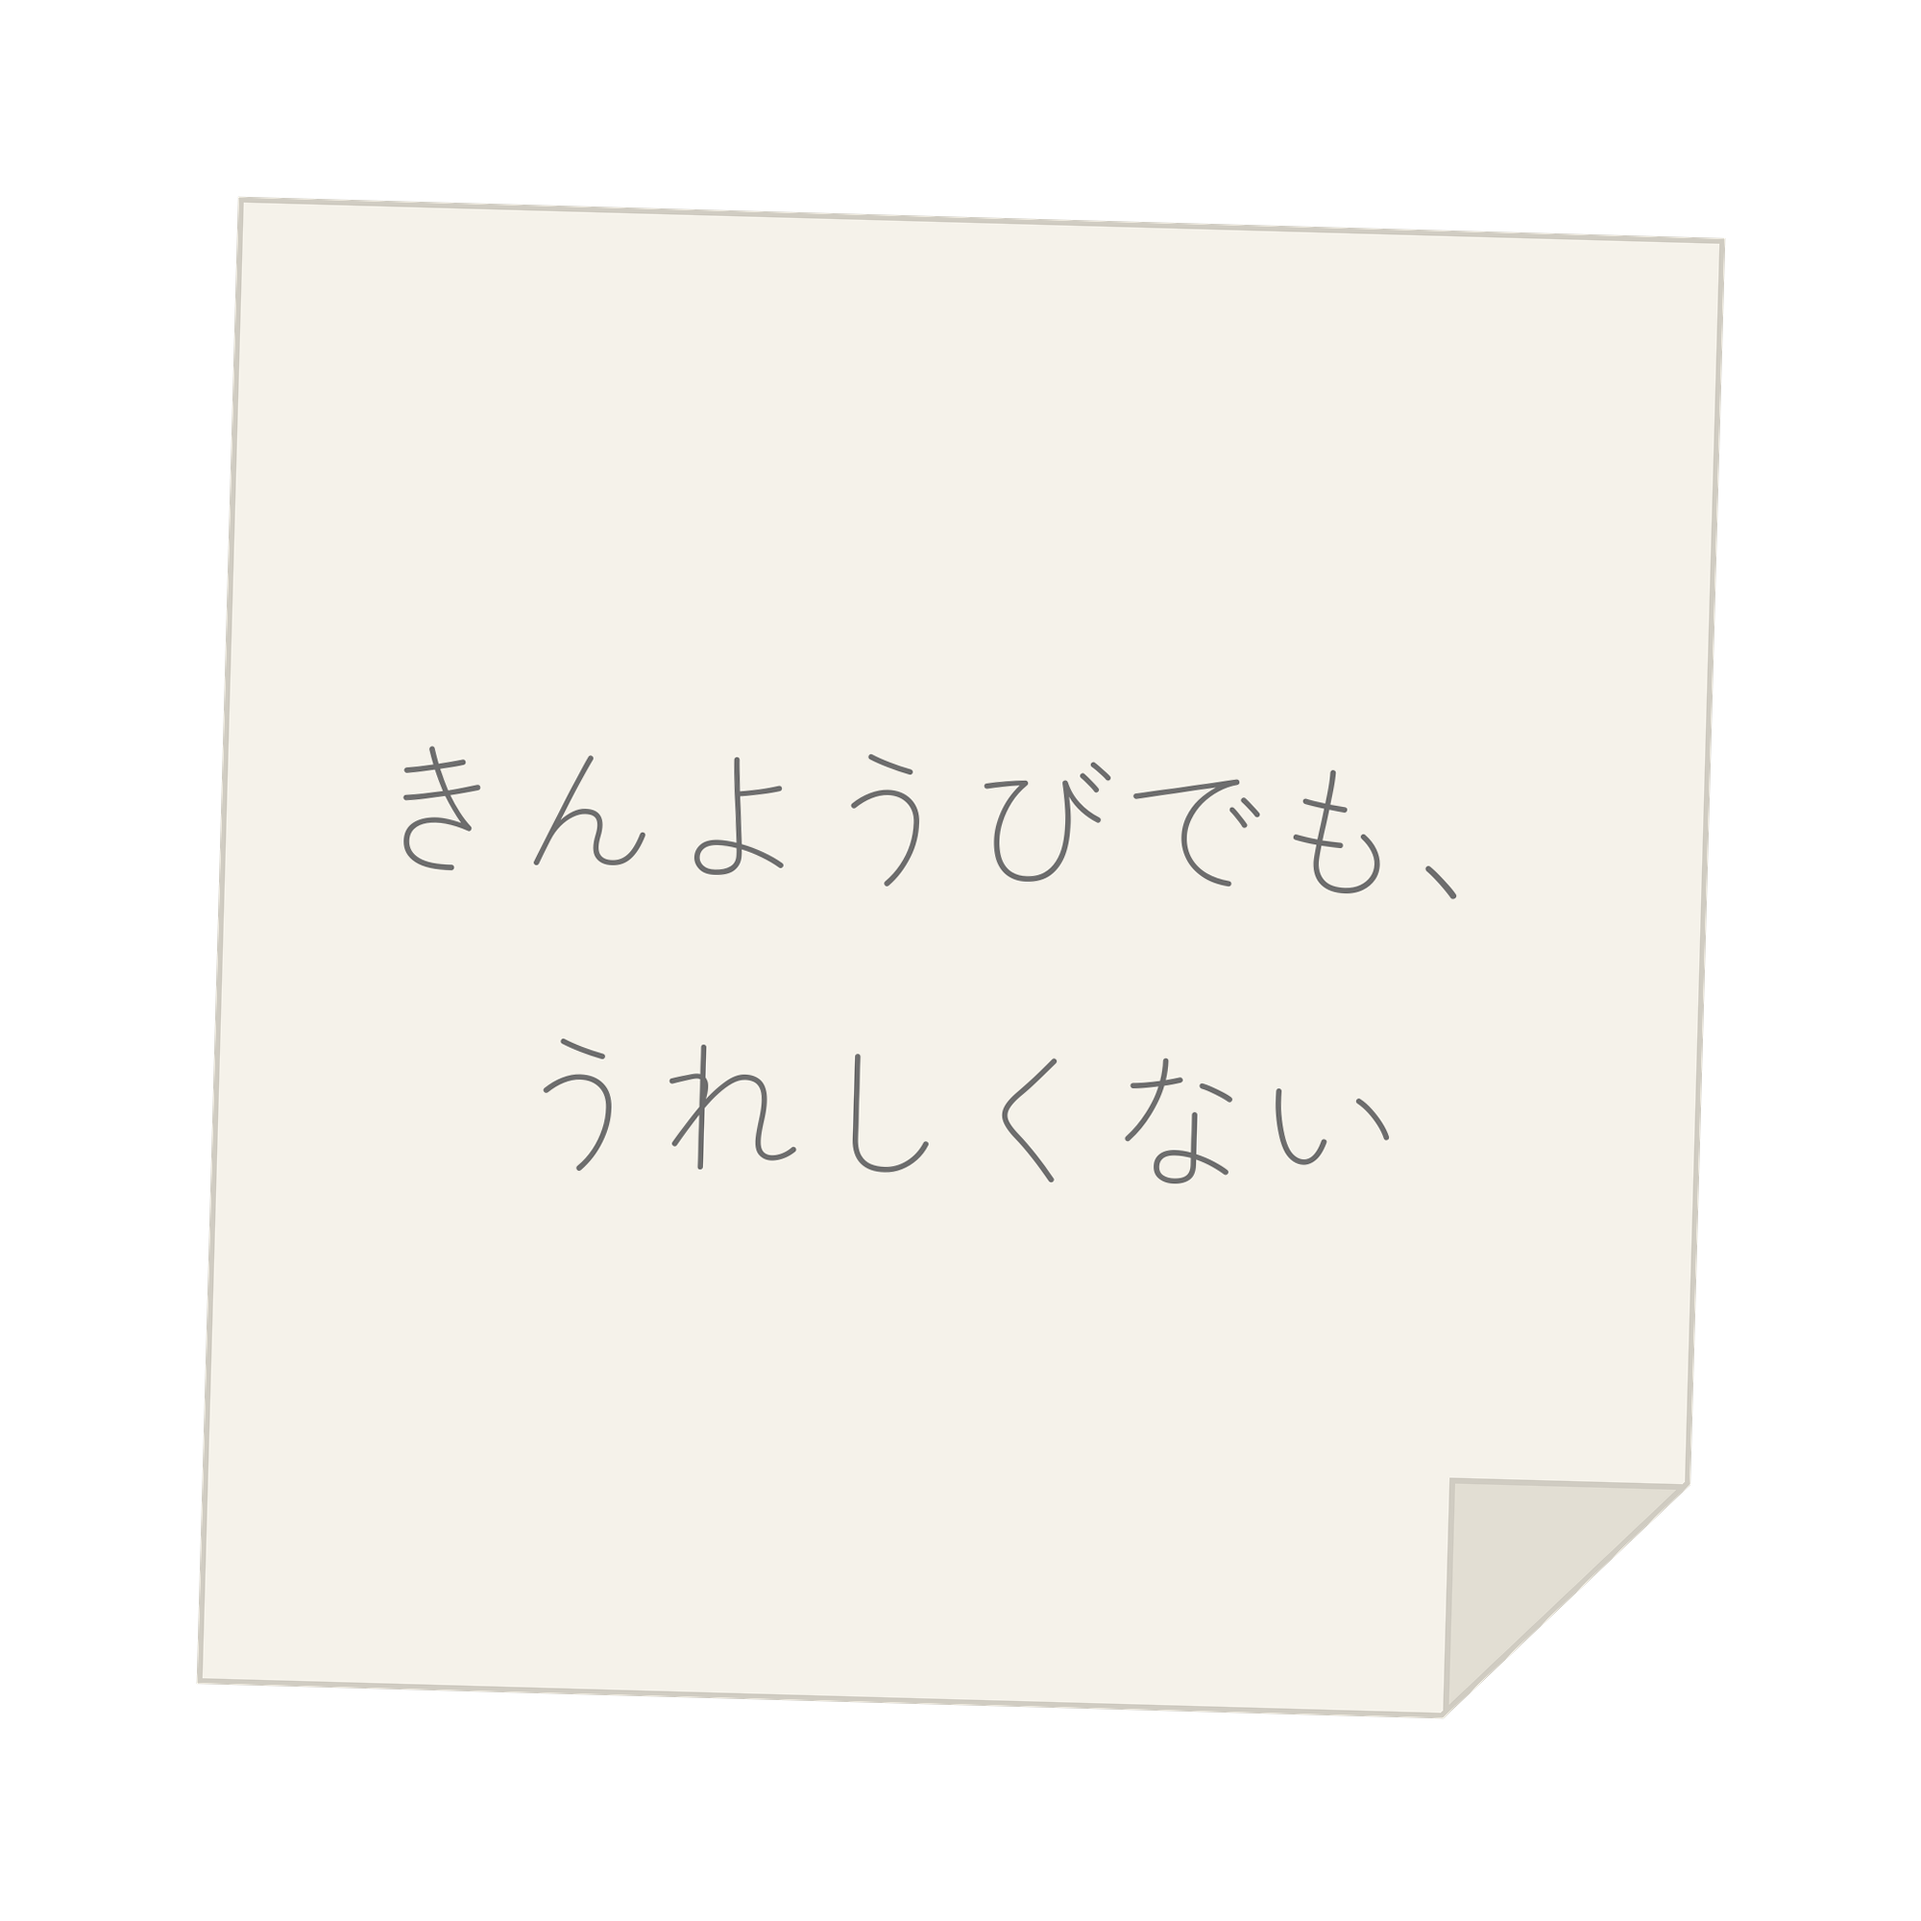
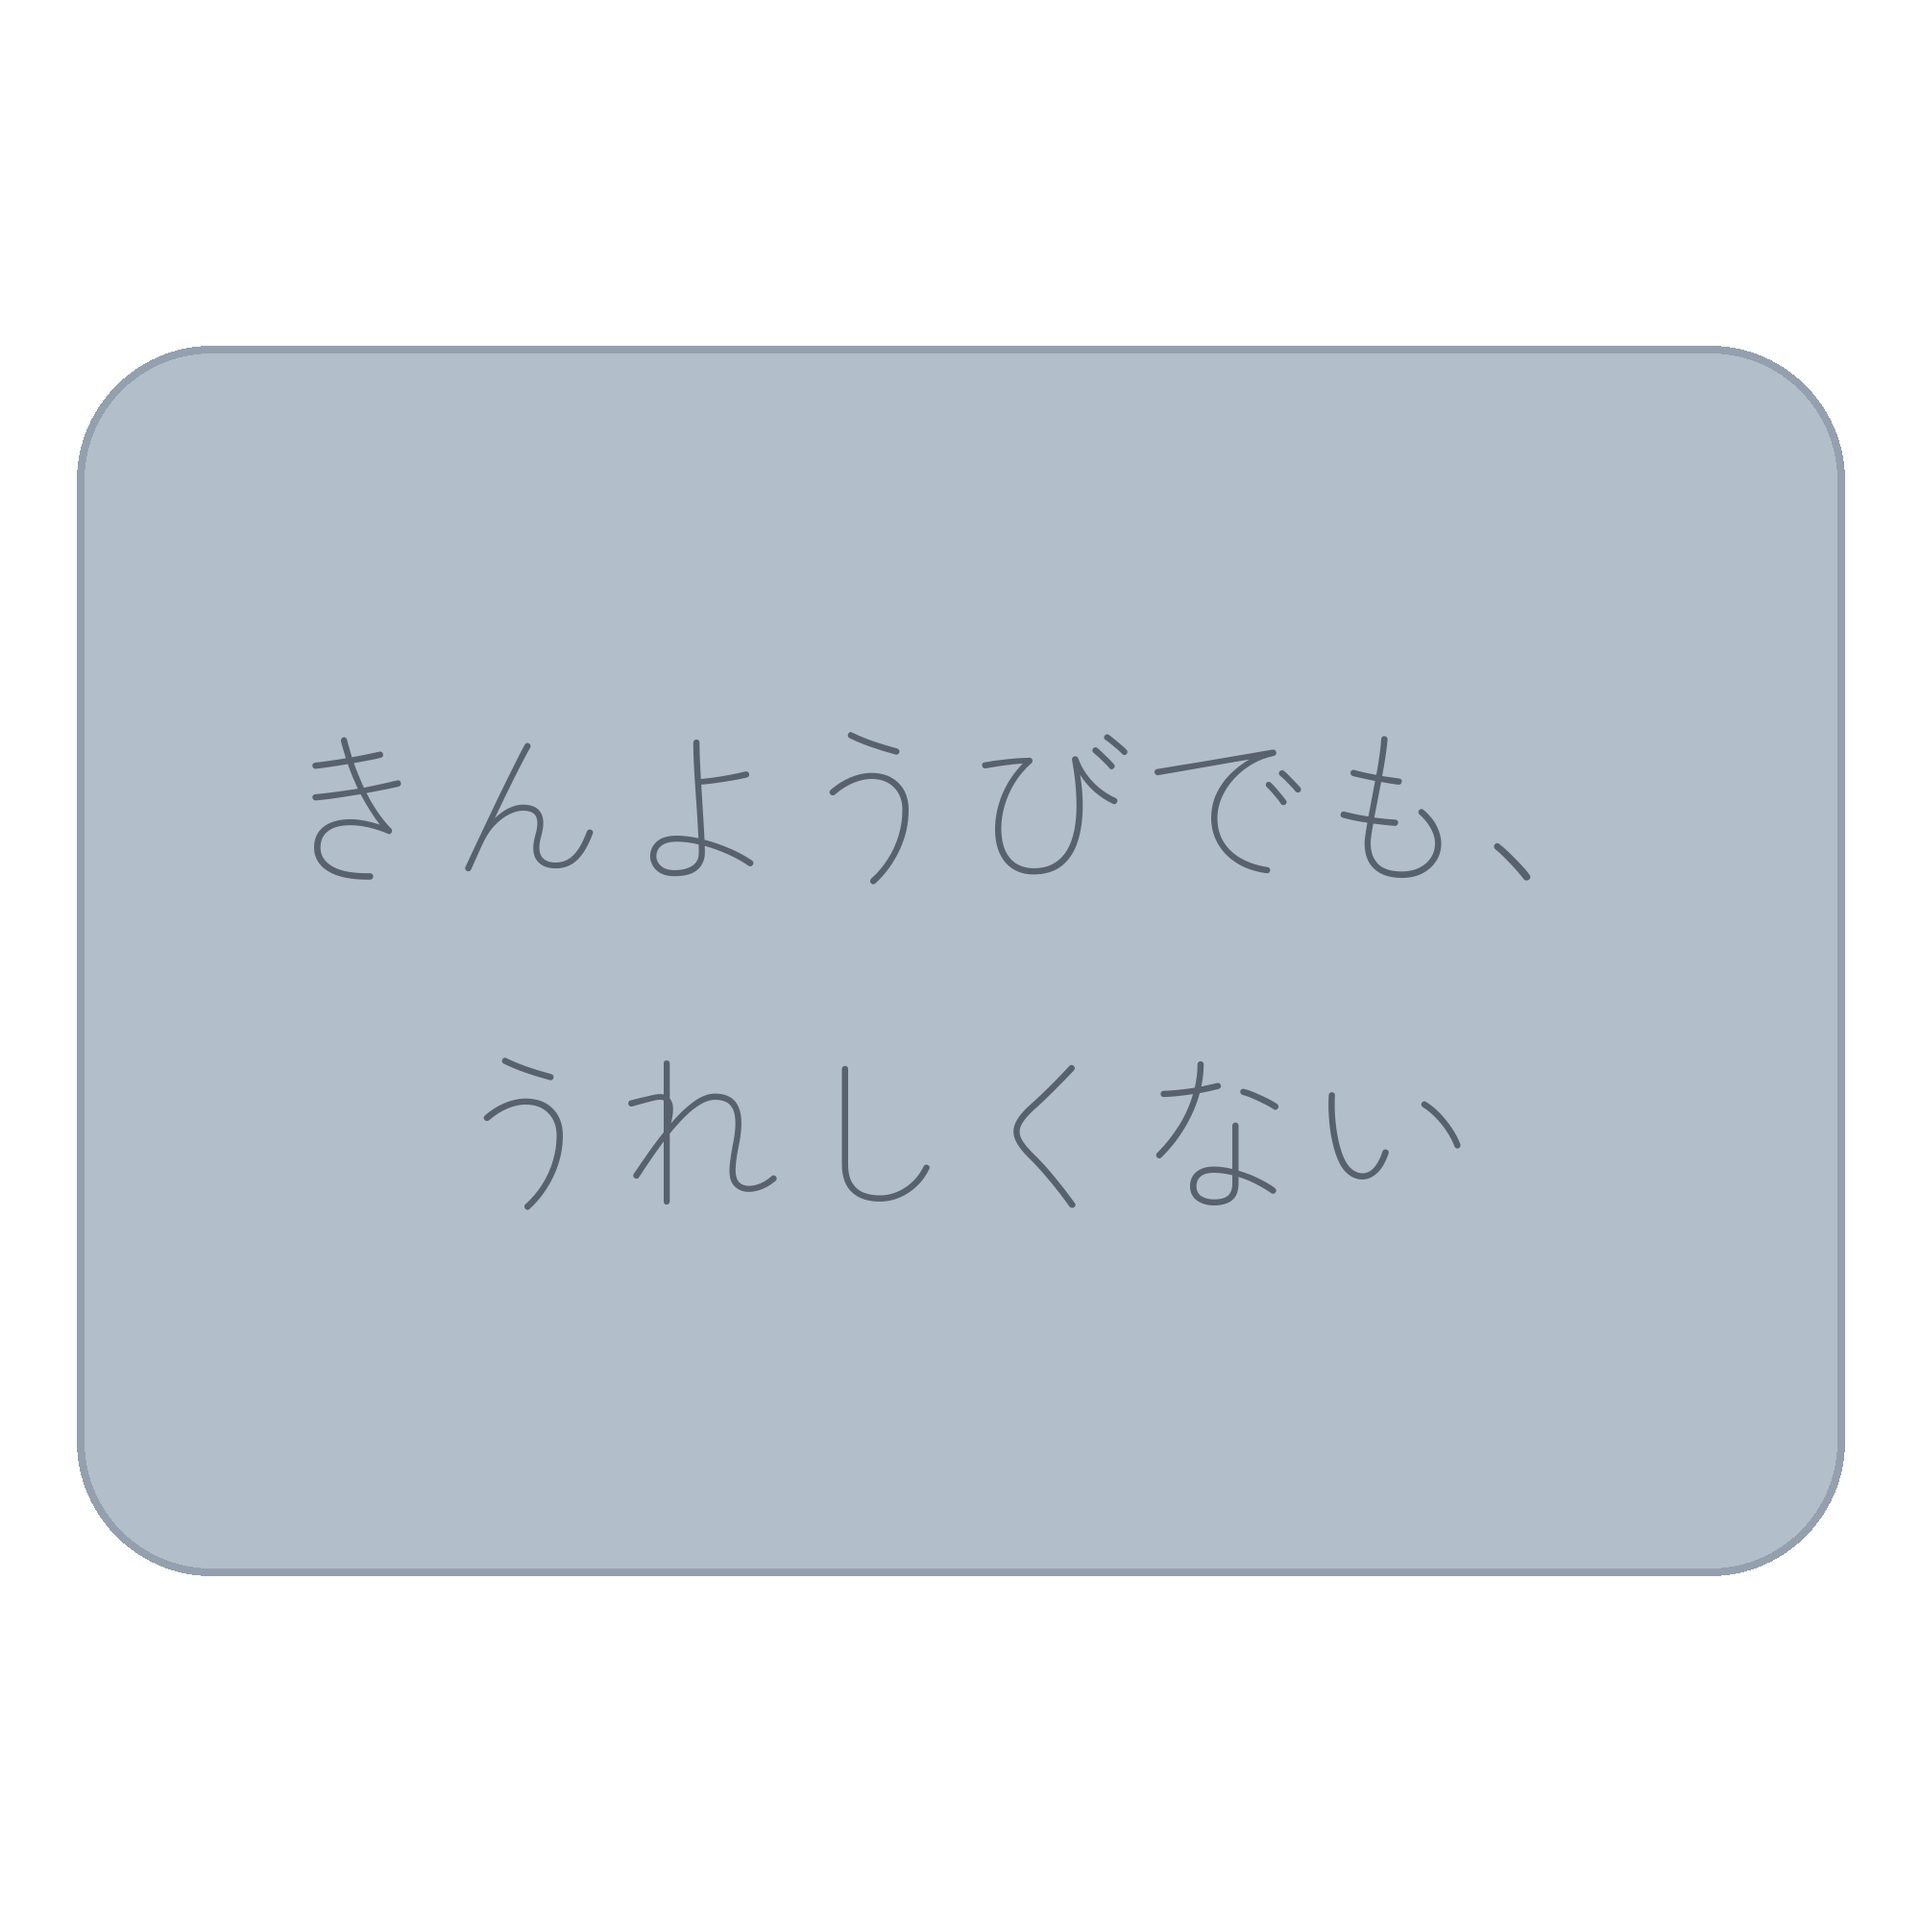
角丸台座をくすみブルーにした配色バリエーションを追加
台座を生成りからくすみブルーに変更し、文字色は台座に
沈まないようスレートグレーに調整。形状は角丸台座版と同じ
1枚もの。

Claude-Session: https://claude.ai/code/session_01Hth1TDsqnV3mvtVRGZwAwr

diff --git a/stickers/generate.py b/stickers/generate.py
@@ -2,9 +2,8 @@
 """「〜ても、シリーズ」ステッカー入稿データ生成スクリプト
 
 SUZURI入稿用の透過PNG(2000x2000)を stickers/png/ に出力する。
-デザインは正方形の付箋風: 生成り色の正方形に右下の紙めくれ、
-全体をわずかに傾けて「手で貼った」感を出す。1枚ものなので
-カットラインは外周1本になる。
+デザインは角丸台座のくすみブルー版: 全種共通の角丸長方形ベースに
+2行組みの文字。1枚ものなのでカットラインは外周1本になる。
 フォント: Zen Maru Gothic Light (SIL Open Font License 1.1 / 商用利用可)
 
 使い方:
@@ -22,19 +21,17 @@ FONT_URL = (
 FONT_CACHE = os.path.join(os.path.dirname(__file__), "ZenMaruGothic-Light.ttf")
 
 CANVAS = 2000          # SUZURI推奨の大判サイズ
-COLOR = (110, 110, 110, 255)  # グレー1色。色数を増やすと脱力が死ぬ
+MAX_LINE_WIDTH = 1460  # 文字の最大幅(台座の内側に収める)
+MAX_FONT_SIZE = 300    # 短い行が間延びしないよう上限を設ける
+LINE_SPACING = 1.30    # 行間(脱力感を出すためやや広め)
+COLOR = (88, 97, 110, 255)  # スレートグレー。ブルー台座に沈まない濃さにする
 
-NOTE_SIZE = 1560       # 付箋の一辺
-NOTE_FILL = (245, 242, 234, 255)    # 生成り(付箋の紙色)
-NOTE_BORDER = (208, 204, 194, 255)  # うっすら輪郭(白地で消えないように)
-NOTE_BORDER_W = 6
-FOLD_SIZE = 250        # 右下の紙めくれの大きさ
-FOLD_FILL = (226, 222, 211, 255)    # めくれの裏面(本体よりやや暗い)
-NOTE_ANGLE = -1.6      # 全体の傾き(手で貼った感)
-
-PAD_X = 150            # 付箋の端から文字までの余白
-MAX_FONT_SIZE = 260    # 短い行が間延びしないよう上限を設ける
-LINE_SPACING = 1.35    # 行間(脱力感を出すためやや広め)
+# 台座: くすみブルーの角丸長方形(シリーズ共通)
+BASE_SIZE = (1840, 1280)
+BASE_RADIUS = 140
+BASE_FILL = (178, 190, 202, 255)    # くすみブルー
+BASE_BORDER = (148, 160, 174, 255)  # うっすら枠線
+BASE_BORDER_W = 8
 
 STICKERS = [
     ("01-kaettemo", "かえっても、かえりたい"),
@@ -62,44 +59,13 @@ def split_lines(text):
 
 
 def fit_font_size(lines):
-    max_width = NOTE_SIZE - PAD_X * 2
     size = MAX_FONT_SIZE
     while size > 10:
         font = load_font(size)
-        if max(font.getbbox(line)[2] for line in lines) <= max_width:
+        if max(font.getbbox(line)[2] for line in lines) <= MAX_LINE_WIDTH:
             return size
         size -= 4
     return size
-
-
-def fusen_note(lines, font):
-    """付箋(右下めくれつき)を透過レイヤーで返す"""
-    n = NOTE_SIZE
-    layer = Image.new("RGBA", (n, n), (0, 0, 0, 0))
-    draw = ImageDraw.Draw(layer)
-
-    b = NOTE_BORDER_W
-    f = FOLD_SIZE
-    # 右下の角を三角に落とした本体
-    body = [
-        (b, b), (n - b, b),
-        (n - b, n - b - f), (n - b - f, n - b),
-        (b, n - b),
-    ]
-    draw.polygon(body, fill=NOTE_FILL, outline=NOTE_BORDER, width=b)
-    # めくれた紙の裏面
-    fold = [(n - b - f, n - b), (n - b, n - b - f), (n - b - f, n - b - f)]
-    draw.polygon(fold, fill=FOLD_FILL, outline=NOTE_BORDER, width=b)
-
-    ascent, descent = font.getmetrics()
-    line_height = int((ascent + descent) * LINE_SPACING)
-    total_height = line_height * (len(lines) - 1) + ascent + descent
-    y = (n - total_height) // 2
-    for line in lines:
-        w = draw.textlength(line, font=font)
-        draw.text(((n - w) // 2, y), line, font=font, fill=COLOR)
-        y += line_height
-    return layer
 
 
 def render(slug, text):
@@ -107,19 +73,28 @@ def render(slug, text):
     size = fit_font_size(lines)
     font = load_font(size)
 
-    note = fusen_note(lines, font)
-    note = note.rotate(NOTE_ANGLE, expand=True, resample=Image.BICUBIC)
-
     img = Image.new("RGBA", (CANVAS, CANVAS), (0, 0, 0, 0))
-    img.alpha_composite(
-        note, ((CANVAS - note.width) // 2, (CANVAS - note.height) // 2)
+    draw = ImageDraw.Draw(img)
+
+    bw, bh = BASE_SIZE
+    bx, by = (CANVAS - bw) // 2, (CANVAS - bh) // 2
+    draw.rounded_rectangle(
+        (bx, by, bx + bw, by + bh),
+        radius=BASE_RADIUS,
+        fill=BASE_FILL,
+        outline=BASE_BORDER,
+        width=BASE_BORDER_W,
     )
 
-    # 回転補間で生じるごく薄いノイズ画素を落とす
-    # (残すとSUZURI側のカットライン自動生成が誤検出しかねない)
-    r, g, b, a = img.split()
-    a = a.point(lambda v: 0 if v < 24 else v)
-    img = Image.merge("RGBA", (r, g, b, a))
+    ascent, descent = font.getmetrics()
+    line_height = int((ascent + descent) * LINE_SPACING)
+    total_height = line_height * (len(lines) - 1) + ascent + descent
+    y = (CANVAS - total_height) // 2
+
+    for line in lines:
+        w = draw.textlength(line, font=font)
+        draw.text(((CANVAS - w) // 2, y), line, font=font, fill=COLOR)
+        y += line_height
 
     out_dir = os.path.join(os.path.dirname(__file__), "png")
     os.makedirs(out_dir, exist_ok=True)
@@ -133,8 +108,8 @@ def preview_sheet():
     cell = 640
     cols = 3
     rows = (len(STICKERS) + cols - 1) // cols
-    # ステッカーの輪郭(カットライン)が見えるよう、付箋より暗い背景にする
-    sheet = Image.new("RGB", (cell * cols, cell * rows), (206, 203, 197))
+    # ステッカーの輪郭(カットライン)が見えるよう、台座より暗い背景にする
+    sheet = Image.new("RGB", (cell * cols, cell * rows), (222, 220, 215))
     out_dir = os.path.join(os.path.dirname(__file__), "png")
     for i, (slug, _) in enumerate(STICKERS):
         img = Image.open(os.path.join(out_dir, f"{slug}.png")).resize(
